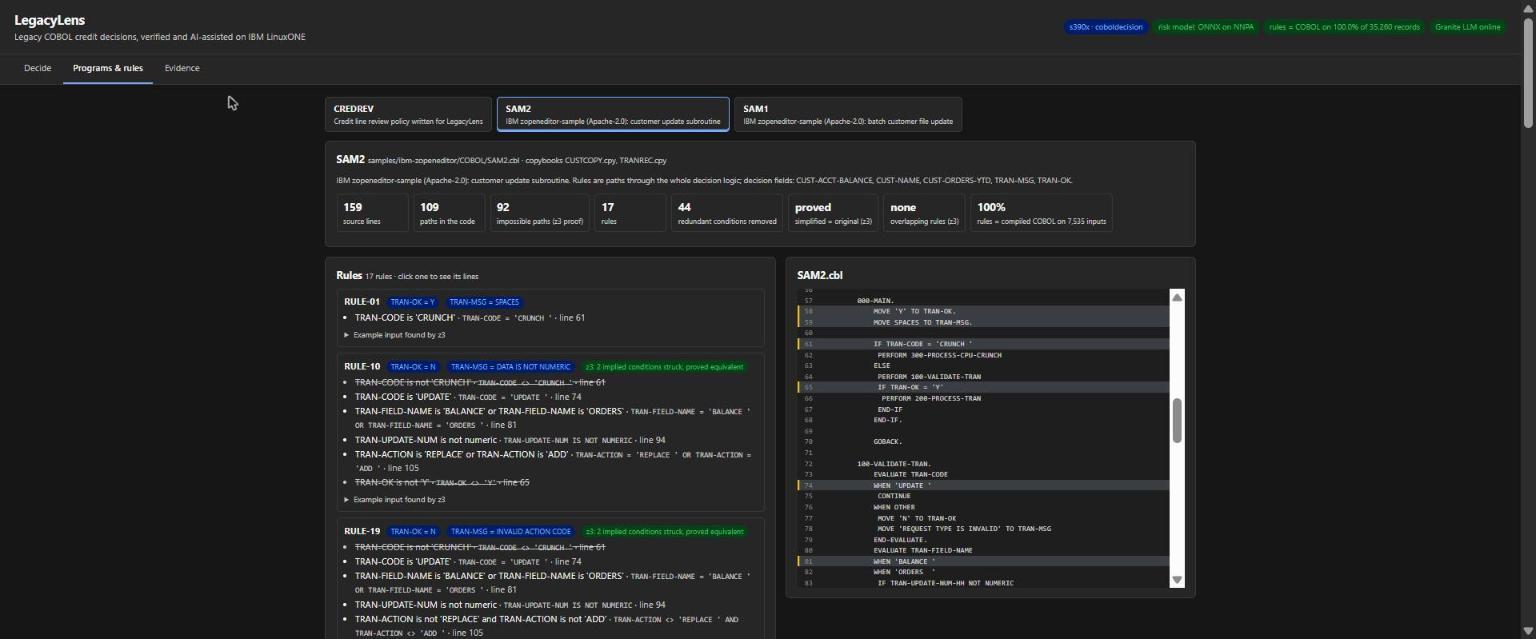
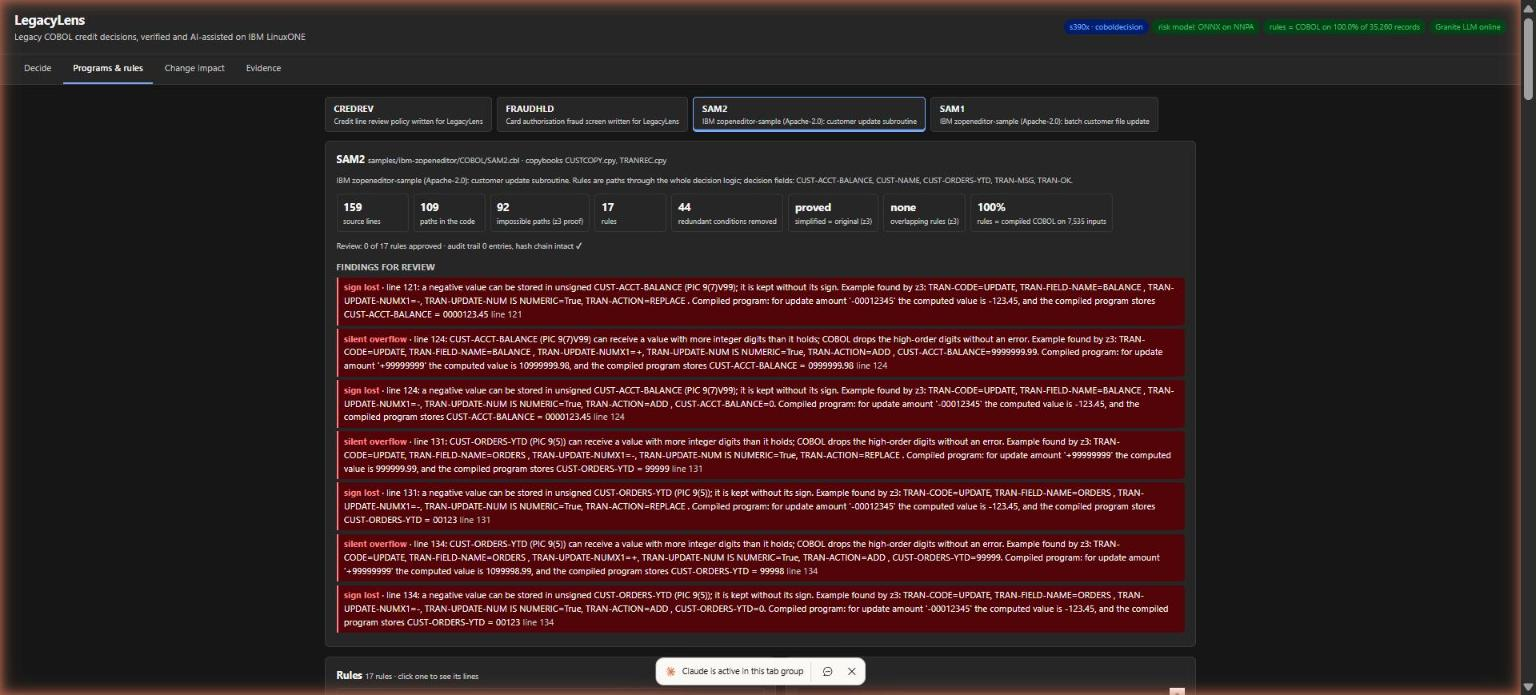
Screenshots from the LinuxONE deployment: SAM2 findings, Granite rule docs with review, change impact, evidence; link contrast in dark mode

diff --git a/legacylens/static/app.js b/legacylens/static/app.js
@@ -284,7 +284,7 @@ function renderEvidence(res) {
       <tr><th>Transactions / customer records</th><td class="num">${money(s1.transactions)} / ${money(s1.customers)}</td></tr>
       <tr><th>Undefined runs (arithmetic on text) excluded</th><td class="num">${money(s1.undefined || 0)}</td></tr>
       <tr><th>Same output file, report, console and return code</th><td class="num">${money(s1.agree)} of ${money(s1.defined_runs)} (${pct(s1.agreement)})</td></tr></table>
-      <h3>Found while running</h3>${Object.entries(s1.runtime_findings || {}).map(([m, n]) => `<div class="finding">${esc(m)} <span class="muted">(${n} runs)</span></div>`).join("")}`;
+      <h3>Found while running</h3>${Object.entries(s1.runtime_findings || {}).map(([m, n]) => `<div class="finding">${esc(m)} <span class="muted">(${n} run${n === 1 ? "" : "s"})</span></div>`).join("")}`;
   }
   const cf = res.conformance;
   if (cf) {

diff --git a/legacylens/static/index.html b/legacylens/static/index.html
@@ -4,7 +4,7 @@
 <meta charset="utf-8">
 <meta name="viewport" content="width=device-width, initial-scale=1">
 <title>LegacyLens</title>
-<link rel="stylesheet" href="/static/style.css?v=6">
+<link rel="stylesheet" href="/static/style.css?v=7">
 </head>
 <body>
 <header>
@@ -100,6 +100,6 @@
   Data: UCI Default of Credit Card Clients (Yeh &amp; Lien, CC BY 4.0). Rules from the COBOL source; risk from an ONNX model on Snap ML;
   explanations by IBM Granite. The AI never approves on its own.
 </footer>
-<script src="/static/app.js?v=6"></script>
+<script src="/static/app.js?v=7"></script>
 </body>
 </html>

diff --git a/legacylens/static/style.css b/legacylens/static/style.css
@@ -25,6 +25,7 @@
   }
 }
 * { box-sizing: border-box; }
+a, a:visited { color: var(--blue); }
 body { margin: 0; background: var(--bg); color: var(--ink);
   font: 15px/1.5 "IBM Plex Sans", system-ui, -apple-system, "Segoe UI", sans-serif; }
 header { display: flex; flex-wrap: wrap; gap: 12px; align-items: center; justify-content: space-between;

diff --git a/README.md b/README.md
@@ -105,9 +105,11 @@ Evidence: [docs/linuxone_system.txt](docs/linuxone_system.txt) (machine type 917
 | ![LinuxONE virtual server](docs/screenshots/01-linuxone-virtual-server.jpg) | ![A held limit increase](docs/screenshots/02-decision-hold.jpg) |
 | The `coboldecision` server in the LinuxONE Community Cloud (AI_LAB flavor) | A decision: COBOL says INCREASE (RULE-05), AI risk is MEDIUM, so the increase is held; Granite explains |
 | ![IBM SAM2 in the program explorer](docs/screenshots/03-cobol-rules.jpg) | ![IBM SAM1 findings](docs/screenshots/05-ibm-sam1-findings.jpg) |
-| IBM's SAM2: 109 paths, 92 proved impossible, 17 rules; struck conditions are implied (z3 proof) | IBM's SAM1: five findings, and the whole program matches the compiled build on 300 file runs |
+| IBM's SAM2: 109 paths, 92 proved impossible, 17 rules; z3 finds silent overflows and sign loss, each example confirmed on the compiled program | IBM's SAM1: five findings, and the whole program matches the compiled build on 300 file runs |
+| ![Rules documented by Granite, with review](docs/screenshots/06-rules-granite-review.jpg) | ![Change impact](docs/screenshots/07-change-impact.jpg) |
+| Each rule documented by IBM Granite on the server (numbers and decision words checked); struck conditions are implied (z3 proof); Approve/Flag go to the hash-chained audit trail | Change impact: z3 finds the 6 regions where version 2 decides differently, both compiled programs confirm them, and the 200 accounts moved to a softer action had a 58% default rate |
 | ![Evidence](docs/screenshots/04-evidence.jpg) | |
-| Evidence: IBM SAM2 and SAM1 checks, construct conformance, speed | |
+| Evidence: IBM SAM2 and SAM1 checks, construct conformance, speed, fault injection, DMN | |
 
 ## Results (all measured on the LinuxONE server)
 
